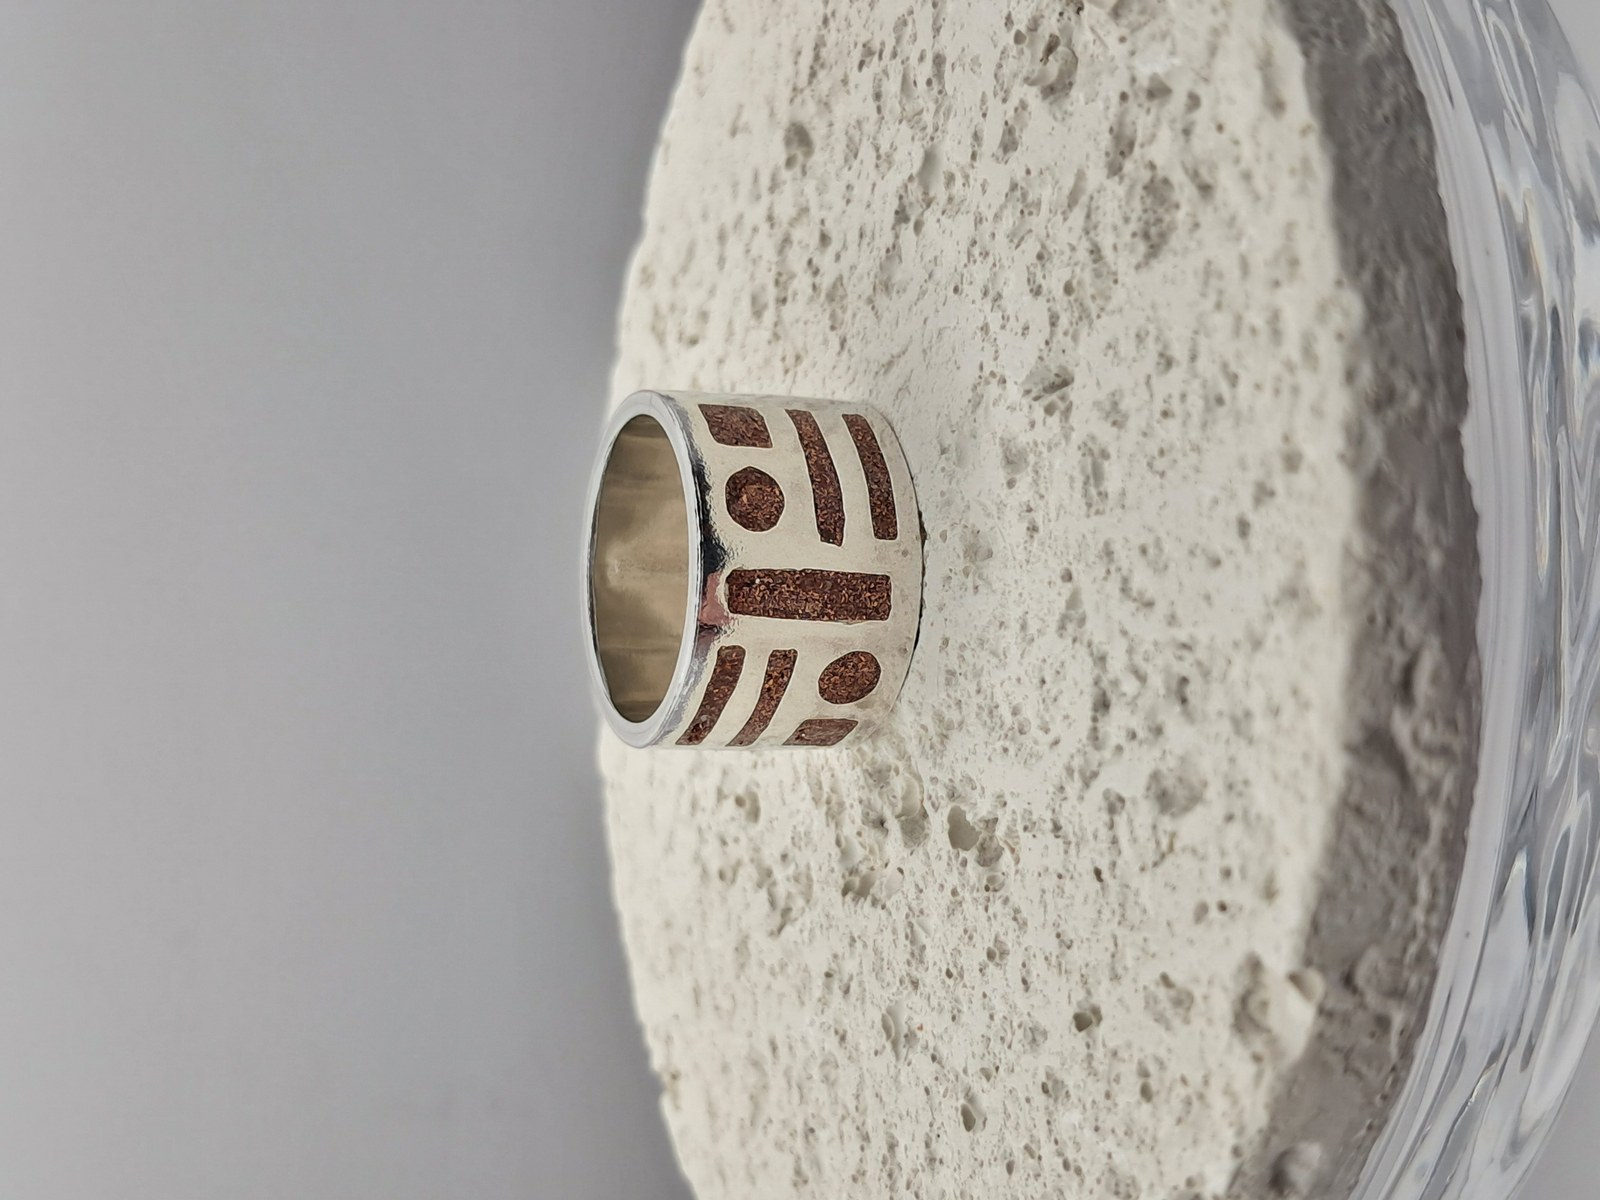
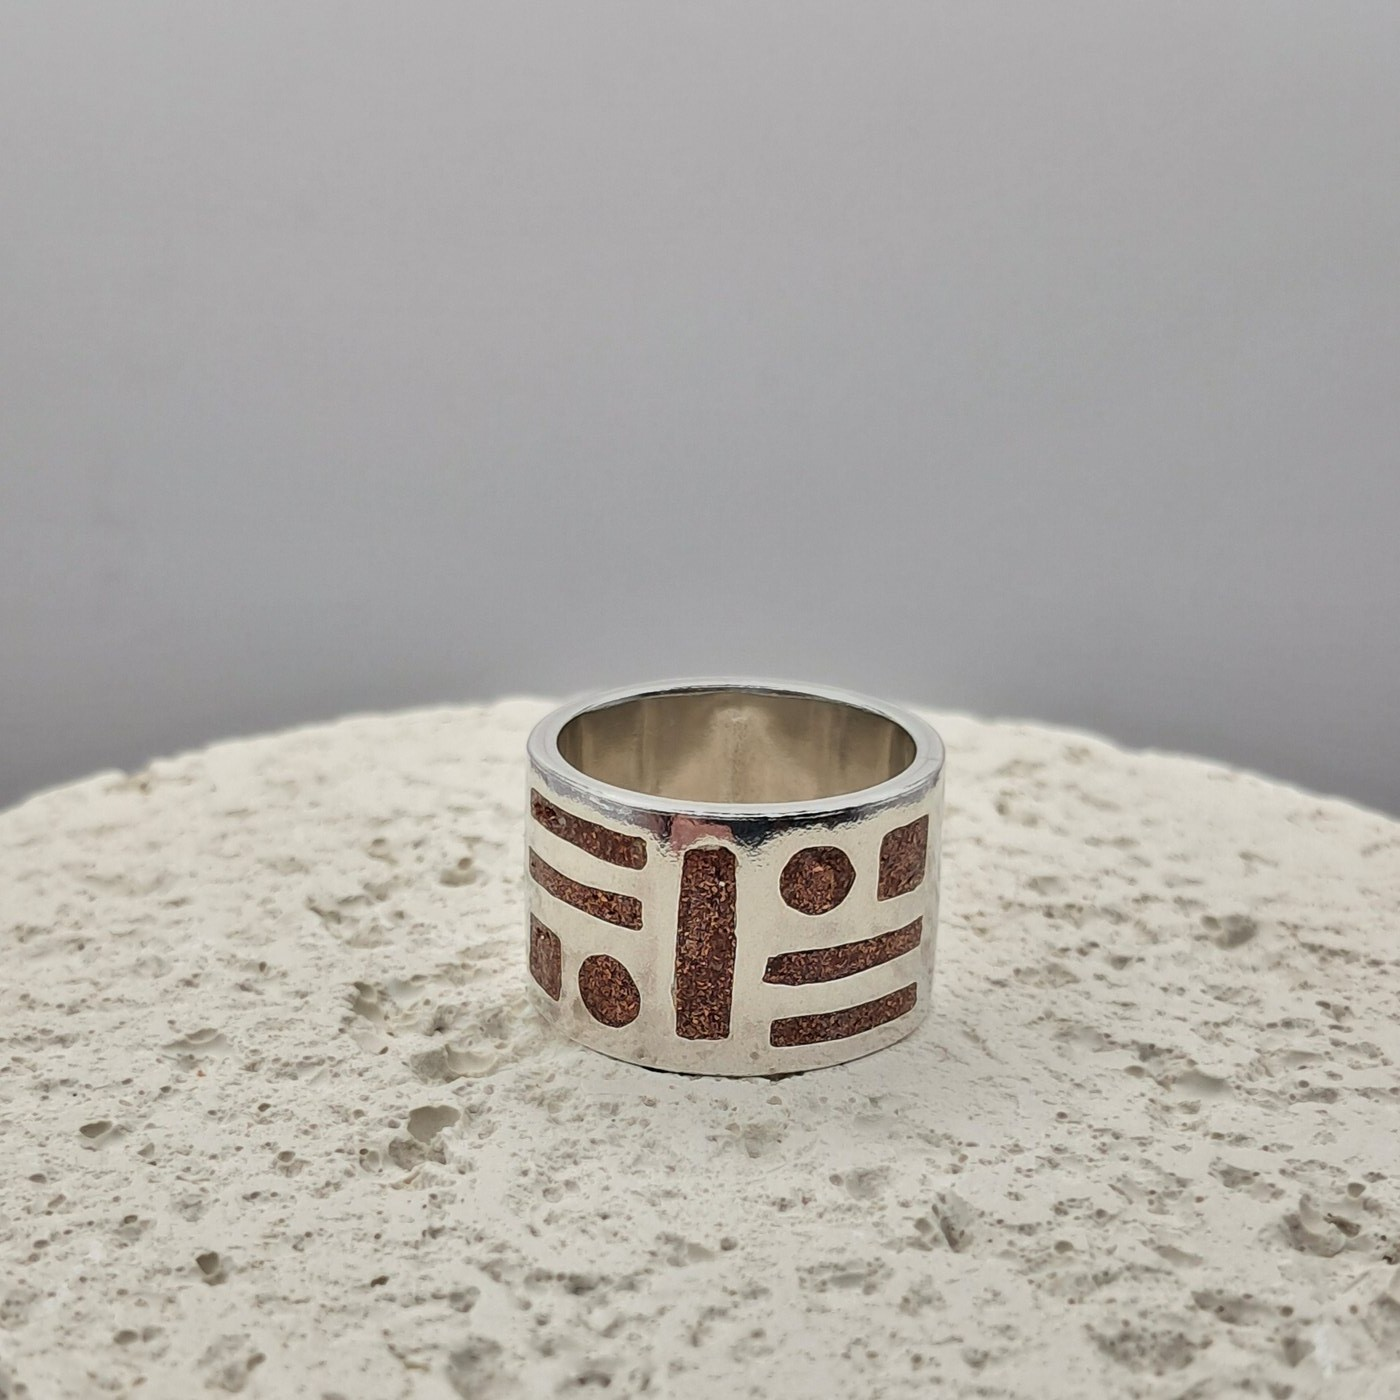
Actualizar galeria: retirar Dijes/Charms, agregar Placa Collar y Anillo Valkiria, corregir textos, ortografia y reencuadrar Codigo Ancestral

diff --git a/index.html b/index.html
@@ -14,15 +14,15 @@
 <meta property="og:title" content="Luna Once · Joyería de Autor | Puerto Varas">
 <meta property="og:description" content="Luna Once · Joyería contemporánea hecha a mano en Puerto Varas. Piezas únicas, diseño a medida, despacho a todo Chile.">
 <meta property="og:url" content="https://lunaonce.cl/">
-<meta property="og:image" content="https://lunaonce.cl/imagenes/codigo-ancestral.jpg">
-<meta property="og:image:width" content="1600">
-<meta property="og:image:height" content="1200">
+<meta property="og:image" content="https://lunaonce.cl/imagenes/pieza-01-martillo-thor.jpg">
+<meta property="og:image:width" content="1120">
+<meta property="og:image:height" content="1092">
 
 <!-- Twitter Card -->
 <meta name="twitter:card" content="summary_large_image">
 <meta name="twitter:title" content="Luna Once · Joyería de Autor | Puerto Varas">
 <meta name="twitter:description" content="Luna Once · Joyería contemporánea hecha a mano en Puerto Varas. Piezas únicas, diseño a medida, despacho a todo Chile.">
-<meta name="twitter:image" content="https://lunaonce.cl/imagenes/codigo-ancestral.jpg">
+<meta name="twitter:image" content="https://lunaonce.cl/imagenes/pieza-01-martillo-thor.jpg">
 
 <link rel="icon" href="favicon.ico" sizes="32x32">
 <link rel="icon" href="favicon.svg" type="image/svg+xml">
@@ -1041,7 +1041,7 @@
           </div>
           <div class="value">
             <h4>Servicios anexos</h4>
-            <p>Reparaciones, limpiezas y pulidos para dar brillo como en el primer dia.</p>
+            <p>Reparaciones, limpiezas y pulidos para dar brillo como en el primer día.</p>
           </div>
           <div class="value">
             <h4>Plata 950 / 925</h4>
@@ -1049,7 +1049,7 @@
           </div>
           <div class="value">
             <h4>Sin prisa</h4>
-            <p>Tiempos de oficio, dedicacion, trabajo unico.</p>
+            <p>Tiempos de oficio, dedicación, trabajo único.</p>
           </div>
         </div>
       </div>
@@ -1203,7 +1203,7 @@
       <div class="piece piece--wide reveal">
         <img src="imagenes/sol-turquesa.jpg" loading="lazy" alt="Anillo con piedra turquesa ovalada, engaste cabuchón y borde cincelado">
         <div class="piece-overlay">
-          <h4>Sol Turqueza</h4>
+          <h4>Sol Turquesa</h4>
           <p>Plata 950 · Engaste Cabuchón · Borde Cincelado</p>
         </div>
       </div>
@@ -1211,14 +1211,14 @@
         <img src="imagenes/pieza-01-martillo-thor.jpg" loading="lazy" alt="Colgante martillo con piedra azul">
         <div class="piece-overlay">
           <h4>Mjölnir</h4>
-          <p>Plata · Lapizlázuli · empuñadura entorchada</p>
+          <p>Plata 950 · Lapislázuli · Empuñadura entorchada</p>
         </div>
       </div>
       <div class="piece piece--tall reveal">
-        <img src="imagenes/pieza-02-colgante-engaste-central.jpg" loading="lazy" alt="Anillo martillado de plata">
+        <img src="imagenes/pieza-02-colgante-engaste-central.jpg" loading="lazy" alt="Colgante de plata con piedra ónix, combinación de cobre y bronce">
         <div class="piece-overlay">
-          <h4>Colgante</h4>
-          <p>Plata 950 · piedra Onix · combinacion de cobre y bronce</p>
+          <h4>Colgante Eclipse</h4>
+          <p>Plata 950 · Piedra Ónix · Combinación Cobre-Bronce</p>
         </div>
       </div>
       <div class="piece piece--tall reveal reveal-delay-1">
@@ -1232,35 +1232,42 @@
         <img src="imagenes/pieza-06-anillo-mokume-gane.jpg" loading="lazy" alt="Anillo con incrustación de madera">
         <div class="piece-overlay">
           <h4>Anillo Bosque</h4>
-          <p>Plata · Mokume gane · Patron unico</p>
+          <p>Plata 950 · Mokume Gane · Patrón Único</p>
         </div>
       </div>
       <div class="piece piece--banner reveal">
         <img src="imagenes/anillos-plata-hoja-verde.jpg" loading="lazy" alt="Anillo de plata con mosaico central, técnica de líneas">
         <div class="piece-overlay">
-          <h4>Lineas</h4>
+          <h4>Líneas</h4>
           <p>Plata 950 · Mosaico Central</p>
         </div>
       </div>
-      <div class="piece piece--wide reveal">
-        <img src="imagenes/codigo-ancestral.jpg" loading="lazy" alt="Anillo ancho de plata con incrustaciones de cobre en patrón geométrico">
+      <div class="piece piece--square reveal reveal-delay-1">
+        <img src="imagenes/codigo-ancestral.jpg" loading="lazy" alt="Anillo de plata con incrustaciones de cobre en patrón geométrico">
         <div class="piece-overlay">
-          <h4>Codigo Ancestral</h4>
+          <h4>Código Ancestral</h4>
           <p>Plata 950 · Cobre · Geometría en relieve</p>
         </div>
       </div>
-      <div class="piece piece--square reveal reveal-delay-1">
+      <div class="piece piece--wide reveal">
         <img src="imagenes/brazalete-cobre-trenzado.jpg" loading="lazy" alt="Brazalete de cobre trenzado">
         <div class="piece-overlay">
           <h4>Brazalete</h4>
           <p>Cobre Trenzado</p>
         </div>
       </div>
-      <div class="piece piece--banner reveal">
-        <img src="imagenes/dijes-charms.jpg" loading="lazy" alt="Colección de dijes de plata con mosaicos de piedra">
+      <div class="piece piece--square reveal">
+        <img src="imagenes/placa-collar.jpg" loading="lazy" style="object-position: 50% 75%;" alt="Medalla de plata con huella de mascota, colgando de un collar de cuero">
         <div class="piece-overlay">
-          <h4>Dijes / Charms</h4>
-          <p>Plata 950 · Mosaicos · Colección</p>
+          <h4>Placa Collar</h4>
+          <p>Plata 925 · Medalla para tu mascota · Cobre Central</p>
+        </div>
+      </div>
+      <div class="piece piece--wide reveal reveal-delay-1">
+        <img src="imagenes/anillo-valkiria.jpg" loading="lazy" alt="Anillo de plata con gema cabuchón en forma de gota y banda entorchada central">
+        <div class="piece-overlay">
+          <h4>Anillo Valkiria</h4>
+          <p>Plata 950 · Entorchado Central · Gota Cabuchón</p>
         </div>
       </div>
     </div>
